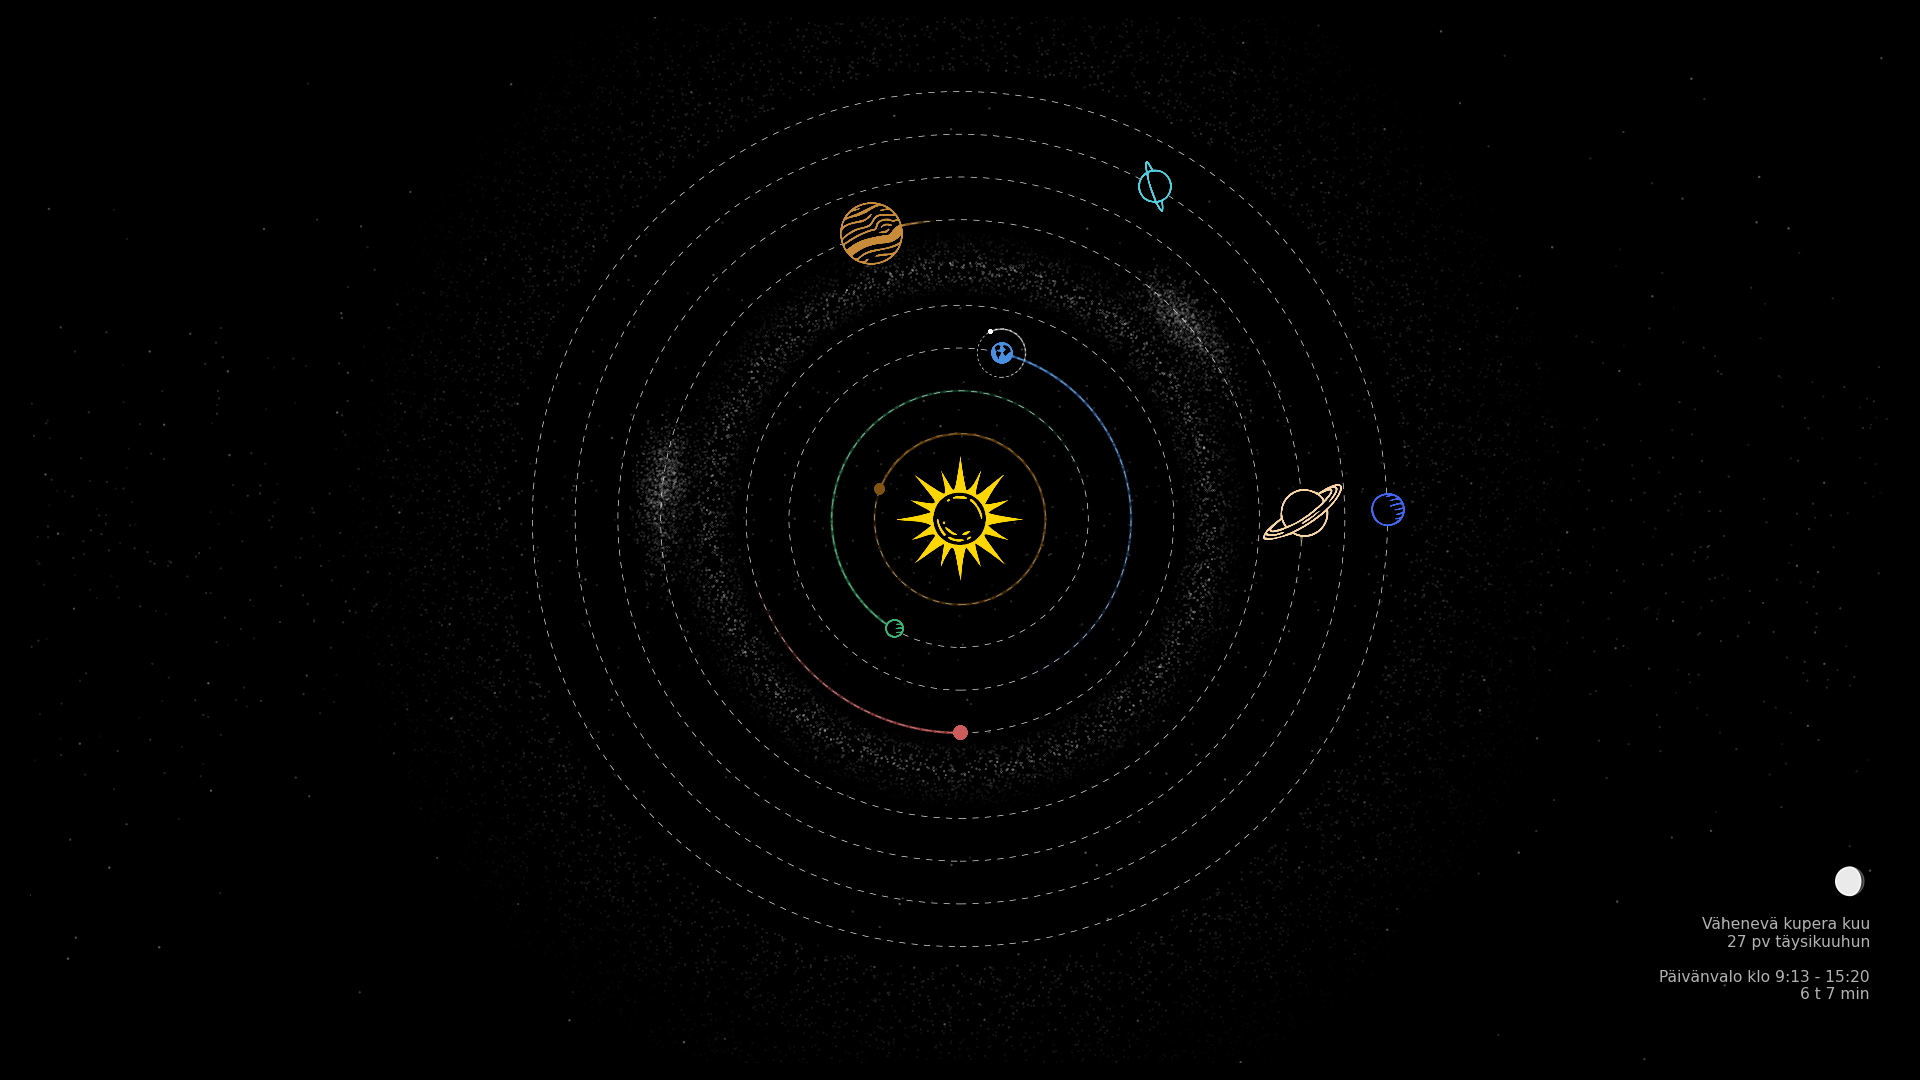
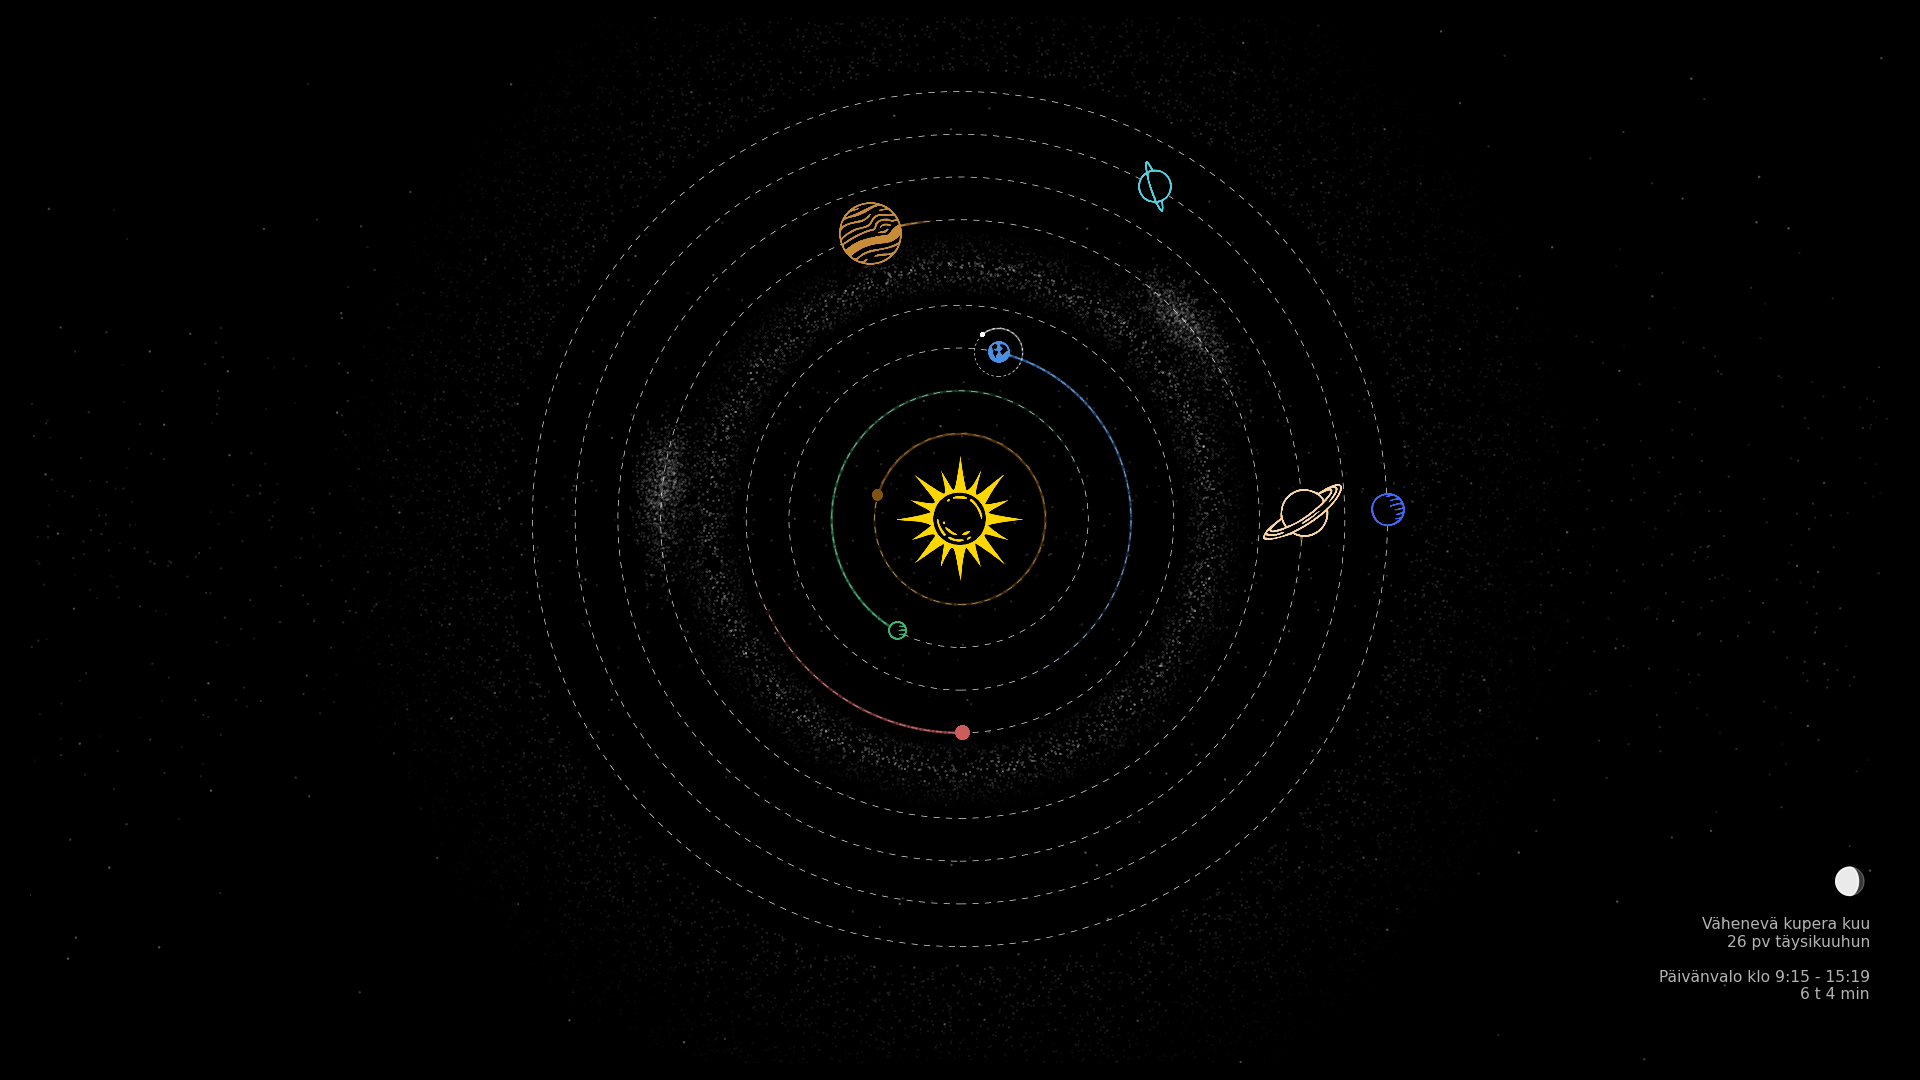
Automatic summer time

diff --git a/solarmap.py b/solarmap.py
@@ -7,6 +7,7 @@ import io
 import cairosvg
 import numpy as np
 from matplotlib import font_manager
+import datetime
 
 
 #Object additions
@@ -457,8 +458,14 @@ observer = Observer(latitude, longitude, 0)
 sunrise_time_obj = SearchRiseSet(Body.Sun, observer, Direction.Rise, utc, 1)
 sunset_time_obj = SearchRiseSet(Body.Sun, observer, Direction.Set, utc, 1)
 
-# Convert to local time (Helsinki is UTC+2 in winter, UTC+3 in summer)
-local_offset_hours = 2  # Adjust to 3 for summer time
+# Convert to local time
+# (Finland is UTC+2, except between last Sunday in March to last Sunday in October UTC+3)
+cal = [int(x) for x in utc.Calendar()[:6]]
+dt = datetime.datetime(*cal)
+last_sun = lambda m: 31 - (dt.replace(month=m, day=31).weekday() + 1) % 7
+local_offset_hours = 3 if (3 < dt.month < 10 or 
+    (dt.month == 3 and dt.day >= last_sun(3)) or 
+    (dt.month == 10 and dt.day < last_sun(10))) else 2
 
 # Use Calendar() to get datetime components (returns tuple: year, month, day, hour, minute, second)
 sunrise_cal = sunrise_time_obj.Calendar()
